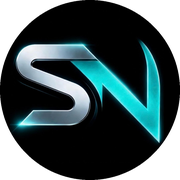
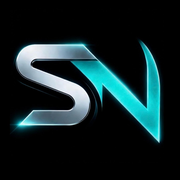
fixed "add to home screen" image size for mobile.

diff --git a/scratch/generate_favicons.py b/scratch/generate_favicons.py
@@ -10,82 +10,72 @@ offset_x = -7
 offset_y = -8
 base_size_for_offset = 320 
 
-def create_circular_favicon(size, output_name):
+def generate_icon(size, output_name, make_circular=False):
     with Image.open(source_path) as img:
-        # 1. Prepare high-quality source
-        # Convert to RGBA for clean processing
         img = img.convert('RGBA')
         
-        # 2. Calculate the size of the logo in the target canvas
+        # 1. Calculate logo size
         logo_w = int(size * scale)
         logo_h = int(size * scale)
         
-        # 3. Resize logo directly to final required size using Lanczos
+        # 2. Resize logo
         resized_logo = img.resize((logo_w, logo_h), Image.Resampling.LANCZOS)
-        
-        # 4. Sharpen for small sizes (prevents blur in 16x16 and 32x32)
         if size <= 64:
             resized_logo = resized_logo.filter(ImageFilter.SHARPEN)
         
-        # 5. Create the canvas (Transparent)
-        canvas = Image.new('RGBA', (size, size), (0, 0, 0, 0))
+        # 3. Create canvas (Solid Black Background)
+        # For home screen icons, we want the full background to show
+        canvas = Image.new('RGBA', (size, size), (0, 0, 0, 255))
         
-        # 6. Draw circular background (Solid Black)
-        draw = ImageDraw.Draw(canvas)
-        draw.ellipse((0, 0, size - 1, size - 1), fill=(0, 0, 0, 255))
-        
-        # 7. Calculate position with offsets
+        # 4. Calculate position with offsets
         pos_x = (size - logo_w) // 2
         pos_y = (size - logo_h) // 2
         pos_x += int(offset_x * (size / base_size_for_offset))
         pos_y += int(offset_y * (size / base_size_for_offset))
         
-        # 8. Paste logo
+        # 5. Paste logo
         canvas.paste(resized_logo, (pos_x, pos_y), resized_logo)
         
-        # 9. Apply a clean, high-res circular mask for anti-aliasing
-        # We create a 4x larger mask and downsample it for smooth edges
-        oversample = 4
-        mask_size = size * oversample
-        mask = Image.new('L', (mask_size, mask_size), 0)
-        mask_draw = ImageDraw.Draw(mask)
-        mask_draw.ellipse((0, 0, mask_size - 1, mask_size - 1), fill=255)
-        mask = mask.resize((size, size), Image.Resampling.LANCZOS)
+        if make_circular:
+            # 6. Apply smooth circular mask ONLY if requested (for tabs)
+            oversample = 4
+            mask_size = size * oversample
+            mask = Image.new('L', (mask_size, mask_size), 0)
+            mask_draw = ImageDraw.Draw(mask)
+            mask_draw.ellipse((0, 0, mask_size - 1, mask_size - 1), fill=255)
+            mask = mask.resize((size, size), Image.Resampling.LANCZOS)
+            
+            final_output = Image.new('RGBA', (size, size), (0, 0, 0, 0))
+            final_output.paste(canvas, (0, 0), mask)
+        else:
+            # For Home Screen, return the solid square canvas
+            final_output = canvas
         
-        # Apply the smooth mask
-        final_output = Image.new('RGBA', (size, size), (0, 0, 0, 0))
-        final_output.paste(canvas, (0, 0), mask)
-        
-        # 10. Save with maximum quality
+        # 7. Save
         final_output.save(os.path.join(output_dir, output_name), 'PNG', optimize=True)
         return final_output
 
-# Standard sizes
-sizes = {
-    16: 'favicon-16x16.png',
-    32: 'favicon-32x32.png',
-    96: 'favicon-96x96.png',
-    180: 'apple-touch-icon.png',
-    192: 'web-app-manifest-192x192.png',
-    512: 'web-app-manifest-512x512.png'
-}
+# --- GENERATE TABS ICONS (CIRCULAR) ---
+generate_icon(16, 'favicon-16x16.png', make_circular=True)
+generate_icon(32, 'favicon-32x32.png', make_circular=True)
+generate_icon(96, 'favicon-96x96.png', make_circular=True)
+generate_icon(32, 'favicon.png', make_circular=True)
 
-for size, name in sizes.items():
-    create_circular_favicon(size, name)
-
-# Special case: favicon.ico (multi-size, unsharpened usually best for ICO)
+# Generate multi-size ICO (Circular)
 ico_sizes = [16, 32, 48]
 ico_images = []
 for size in ico_sizes:
-    ico_images.append(create_circular_favicon(size, f'temp_{size}.png'))
-
+    ico_images.append(generate_icon(size, f'temp_{size}.png', make_circular=True))
 ico_images[0].save(os.path.join(output_dir, 'favicon.ico'), format='ICO', sizes=[(s, s) for s in ico_sizes], append_images=ico_images[1:])
 
-# Create fallback favicon.png
-create_circular_favicon(32, 'favicon.png')
+# --- GENERATE HOME SCREEN ICONS (SQUARE / APP-STYLE) ---
+generate_icon(180, 'apple-touch-icon.png', make_circular=False)
+generate_icon(192, 'web-app-manifest-192x192.png', make_circular=False)
+generate_icon(512, 'web-app-manifest-512x512.png', make_circular=False)
 
-# Cleanup temp files
+# Cleanup
 for size in ico_sizes:
-    os.remove(os.path.join(output_dir, f'temp_{size}.png'))
+    temp_path = os.path.join(output_dir, f'temp_{size}.png')
+    if os.path.exists(temp_path): os.remove(temp_path)
 
-print("High-clarity circular favicons published successfully.")
+print("Split-style icons (Circular tabs / Square Home Screen) published successfully.")
